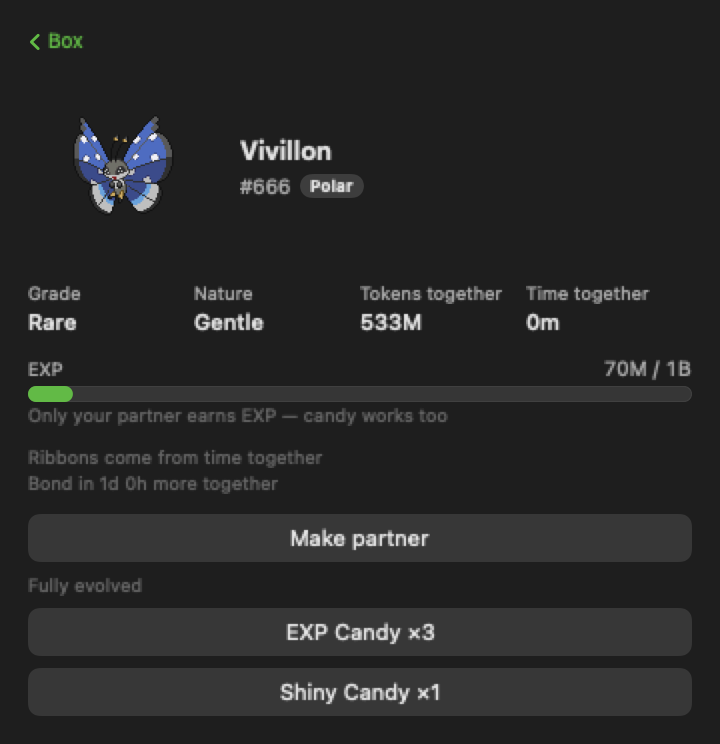
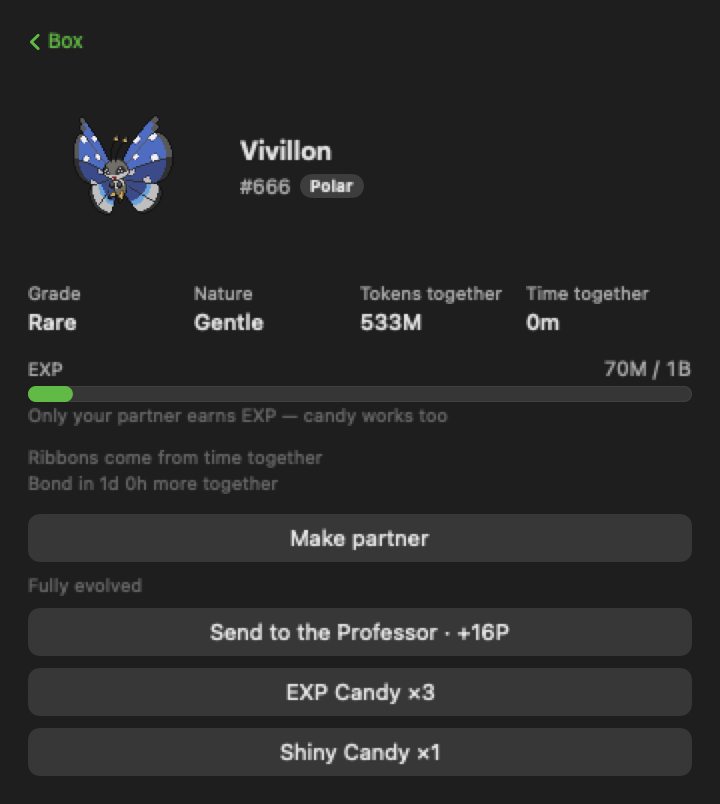
landing: show the Professor you send Pokemon to

diff --git a/index.html b/index.html
@@ -314,6 +314,10 @@
         <figcaption data-i18n="cap.foundegg">A fully evolved Pokémon has nowhere left to put its experience, so it gathers into an Egg of that Pokémon's own line — a Charizard brings a Charmander Egg, filling in the stages you skipped. Press the announcement and it drops straight into a hatching slot; experience stops there and resets when you take it, so only one ever waits.</figcaption>
       </figure>
       <figure>
+        <div class="shot"><img src="assets/professor-banner.png" alt="The Professor's offer — three cards with sprites, names, grades and prices, the shiny one ringed in gold, above a Send to the Professor button"></div>
+        <figcaption data-i18n="cap.professor">Pokémon you were never going to raise can go to the Professor, who pays in research points — more for the ones you did raise, so what you clear out is naturally the duplicates you left alone. Points are their own currency: they can't buy Eggs, and tokens can't buy from him. Every day he offers three in exchange, leaning toward species missing from your Dex. Pick several at once in the Box; anything shiny or Legendary in the batch is named out loud and asked about twice.</figcaption>
+      </figure>
+      <figure>
         <div class="shot"><img src="assets/form-banner.png" alt="Palafin and Terapagos beside the forms they change into"></div>
         <figcaption data-i18n="cap.partnerform">A few change by who you keep close. Palafin turns Hero when it steps back, not when it comes out — swap it away and it returns changed. Terapagos wears its Terastal Form for as long as it is with you.</figcaption>
       </figure>
@@ -468,6 +472,7 @@
       "cap.partnerform": "A few change by who you keep close. Palafin turns Hero when it steps back, not when it comes out — swap it away and it returns changed. Terapagos wears its Terastal Form for as long as it is with you.",
       "cap.warmed": "Flame Body, Magma Armor and Steam Engine halve egg hatching in the games, and the 23 species carrying one do it here. Owning any of them is enough — anything already incubating loses half its remaining time, and every egg after starts at half.",
       "cap.foundegg": "A fully evolved Pokémon has nowhere left to put its experience, so it gathers into an Egg of that Pokémon's own line — a Charizard brings a Charmander Egg, filling in the stages you skipped. Press the announcement and it drops straight into a hatching slot; experience stops there and resets when you take it, so only one ever waits.",
+      "cap.professor": "Pokémon you were never going to raise can go to the Professor, who pays in research points — more for the ones you did raise, so what you clear out is naturally the duplicates you left alone. Points are their own currency: they can't buy Eggs, and tokens can't buy from him. Every day he offers three in exchange, leaning toward species missing from your Dex. Pick several at once in the Box; anything shiny or Legendary in the batch is named out loud and asked about twice.",
 
       "tr.eyebrow": "Underneath",
       "tr.h2": "A usage tracker you'll actually open",
@@ -533,6 +538,7 @@
       "cap.partnerform": "곁에 두는 것으로 바뀌는 아이들도 있습니다. 돌핀맨은 나올 때가 아니라 물러날 때 마이티폼이 되고, 다른 아이로 바꾸면 그때 달라져 있습니다. 테라파고스는 곁에 있는 동안 계속 테라스탈 폼입니다.",
       "cap.warmed": "불꽃몸·마그마의무장·증기기관은 원작에서 부화를 절반으로 줄여 주고, 그 특성을 가진 23종이 여기서도 같은 일을 합니다. 박스에 있기만 하면 되고, 이미 부화 중이던 알은 남은 시간이 절반이 됩니다.",
       "cap.foundegg": "다 진화한 포켓몬은 경험치가 갈 곳이 없어, 그 경험치가 자기 라인의 알로 모입니다 — 리자몽은 파이리 알을 가져와 건너뛴 앞 단계를 도감에 메우게 해줘요. 알림을 누르면 바로 아래 부화 칸에 들어가고, 경험치는 알 하나에서 멈춰 받으면 0으로 돌아갑니다.",
+      "cap.professor": "끝내 안 키울 포켓몬은 박사에게 보내고 연구 포인트를 받습니다 — 키운 아이일수록 값이 나가서, 정리 대상이 자연히 손 안 댄 중복이 돼요. 포인트는 별개 재화라 알을 못 사고, 토큰으로는 박사와 거래할 수 없어요. 박사는 매일 세 마리를 내밀며 도감에 없는 종을 좀 더 자주 골라 옵니다. 박스에서 여러 마리를 한 번에 고를 수도 있어요 — 이로치나 전설이 섞이면 이름으로 불러 주고 한 번 더 물어봅니다.",
 
       "tr.eyebrow": "그 아래엔",
       "tr.h2": "정말로 열어보게 되는 사용량 트래커",
@@ -598,6 +604,7 @@
       "cap.partnerform": "そばに置くことで変わる子もいます。イルカマンは出てくるときではなく引っ込むときにマイティフォルムになり、別の子に替えると変わっています。テラパゴスはそばにいるあいだずっとテラスタルフォルムです。",
       "cap.warmed": "ほのおのからだ・マグマのよろい・じょうききかんは原作でふ化を半分にします。その特性を持つ23種がここでも同じ働きをし、ボックスにいるだけでふ化中のタマゴの残り時間が半分になります。",
       "cap.foundegg": "しんかしきったポケモンのけいけんちは行き場がなく、じぶんのラインのタマゴになります — リザードンはヒトカゲのタマゴをもってきて、とばした前のすがたを図鑑にうめられます。おしらせをおすとすぐ下のふ化スロットに入り、けいけんちはタマゴひとつでとまって、うけとると0にもどります。",
+      "cap.professor": "けっきょく育てないポケモンははかせにおくって、けんきゅうポイントをもらえます — 育てた子ほど高くつくので、整理するのは自然と手をつけなかった重複になります。ポイントは別のつうかで、タマゴは買えず、トークンでははかせと取引できません。はかせは毎日3ひきをていあんし、図鑑にいない種をすこし多めにえらんできます。ボックスでまとめてえらぶこともでき、色違いや伝説がまざると名前でよびかけ、もういちど確認します。",
 
       "tr.eyebrow": "その下では",
       "tr.h2": "実際に開きたくなる使用量トラッカー",
